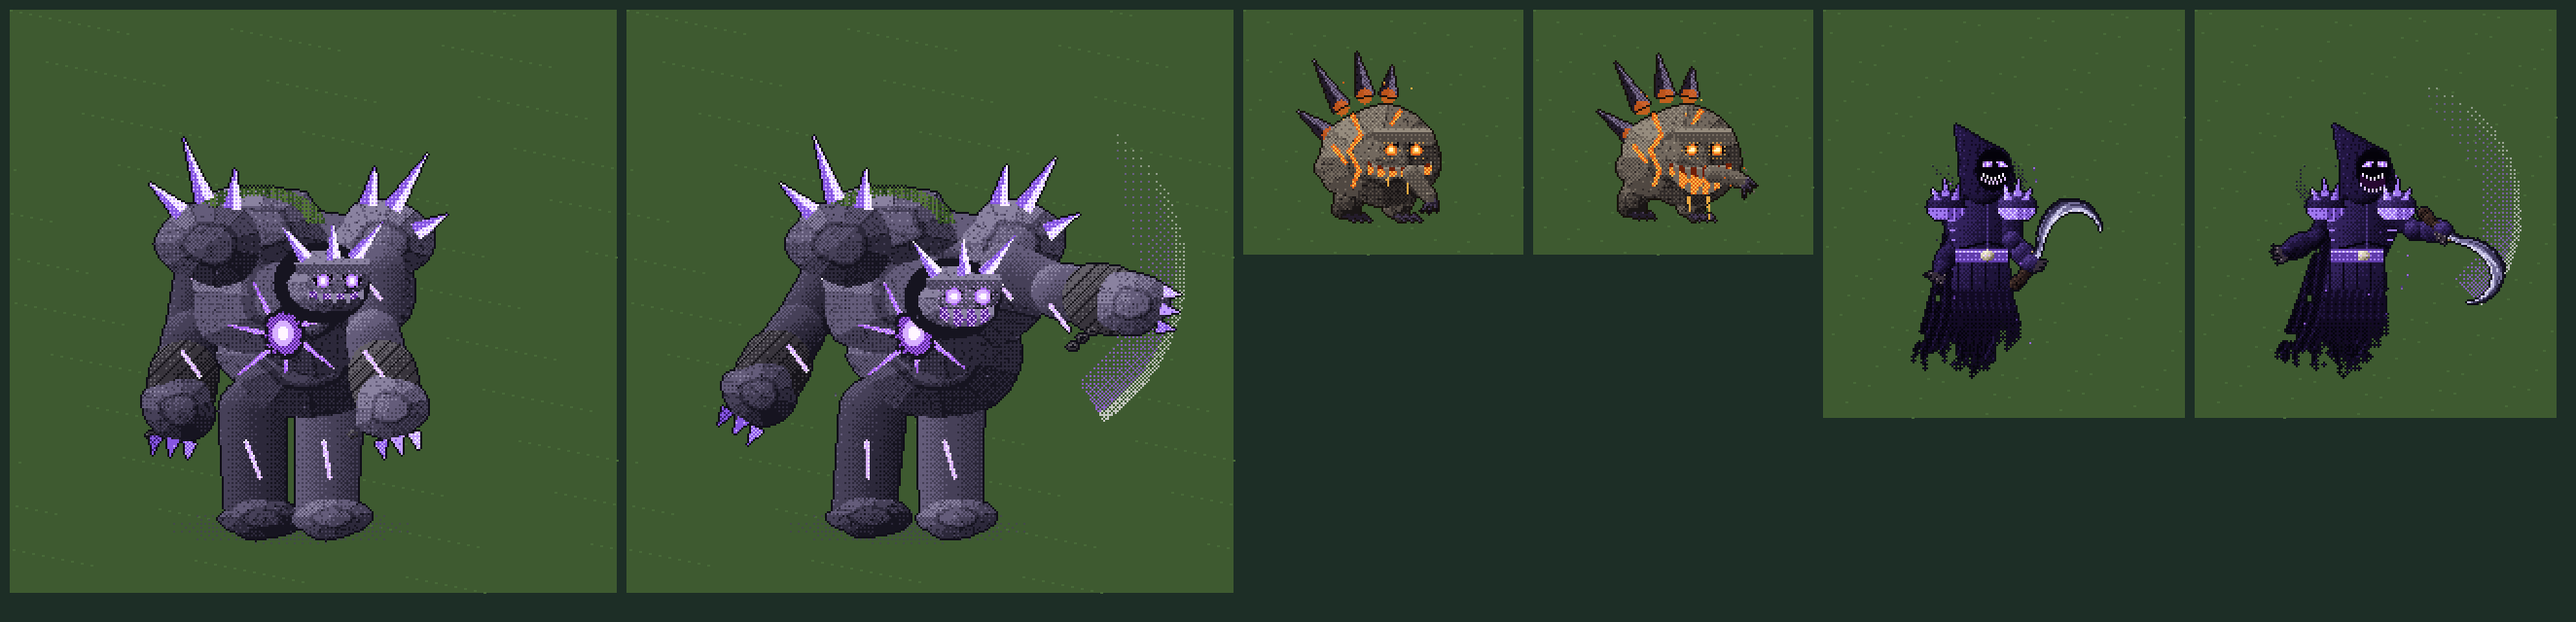
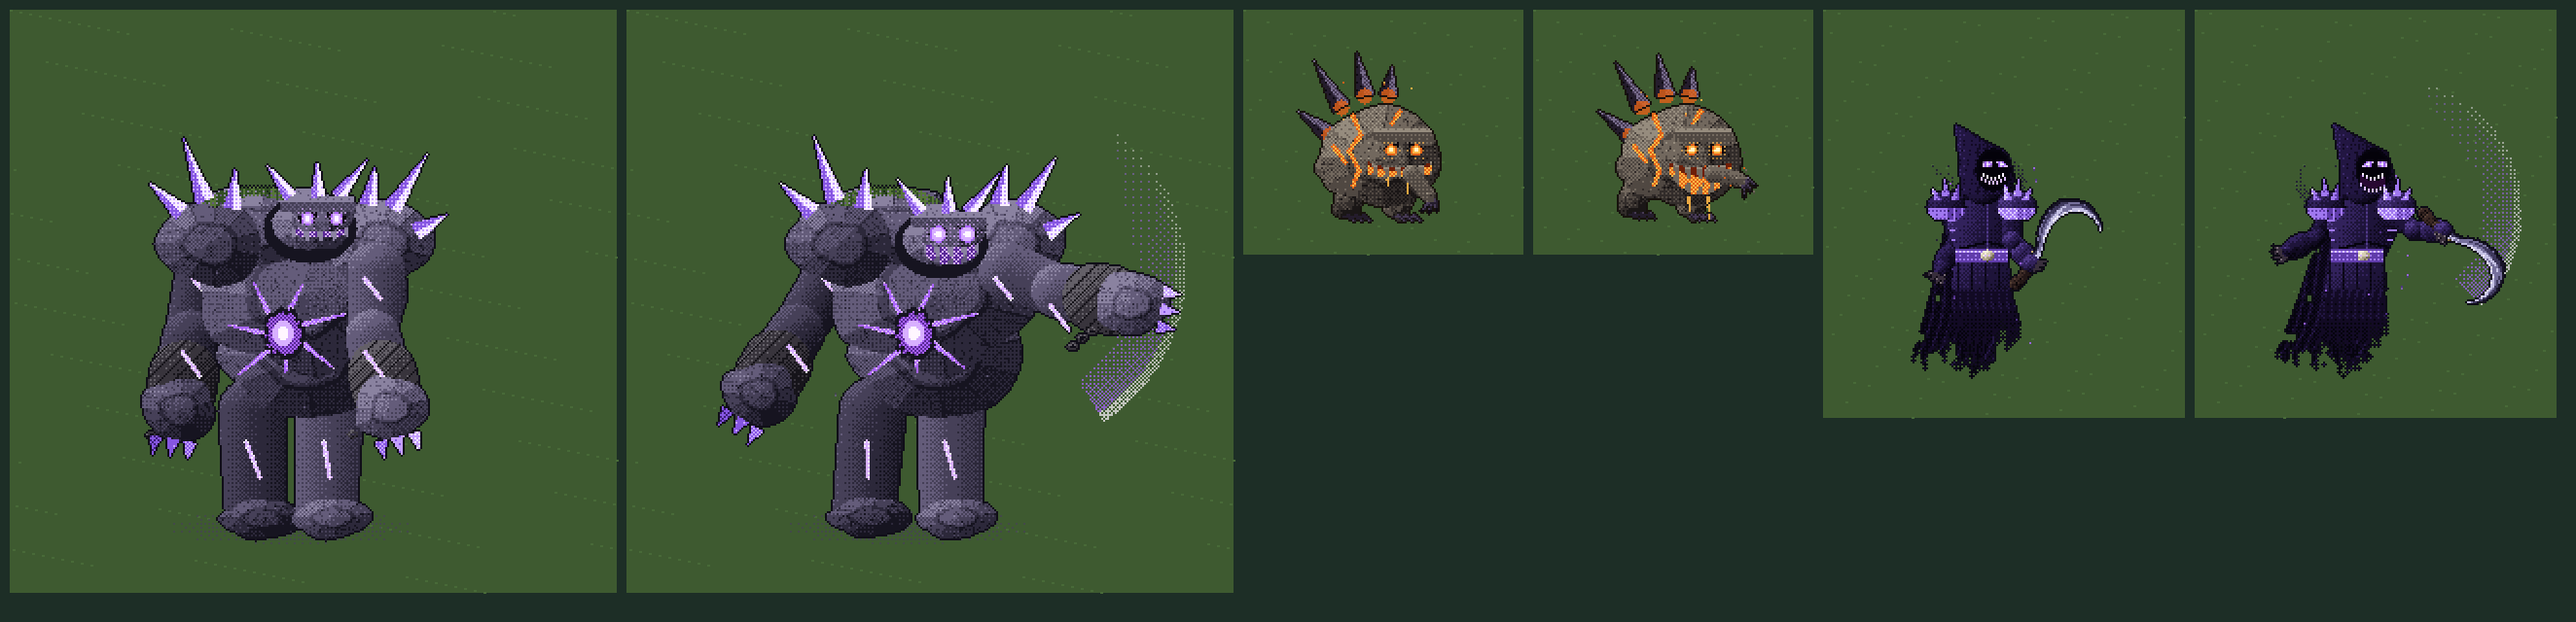
Страж костей: бараний рог за черепом, не закрывает лицо; голем: голова на груди между плеч, над ядром

Changed region(s): [[0.0619, 0.25, 0.1858, 0.5625], [0.3097, 0.2812, 0.4026, 0.5625]]

diff --git a/js/world/foepx.js b/js/world/foepx.js
@@ -380,16 +380,20 @@ function fpxHeadIce(X, hx, hy, Q, o) {                                          
   }
   X.R(hx - 6, hy - r * 1.05, hx + 10, hy - r * 0.5, (x, y) => ((x - hx - 2) / 8) ** 2 + ((y - hy + r * 0.85) / 2.6) ** 2 < 1 && X.dth(x, y) < 0.6 ? o.I[4] : null);   // иней на темени
 }
-function fpxHeadBone(X, hx, hy, Q, o) {                                                      // бычий череп с закрученными рогами
+function fpxHeadBone(X, hx, hy, Q, o) {                                                      // бычий череп, бараньи рога закручены назад вокруг уха
   const r = 12.5;
   fpxHorn(X, hx - 7, hy - 7, -1, 18, 3.4, o.Hr, -0.25);
-  fpxSkull(X, hx, hy, r, { Bn: o.Bn, G: o.G, open: Q.open, blink: Q.blink, hot: Q.hurt });
-  const cx = hx - r * 0.45, cy = hy - r * 0.05;                                             // ближний рог — спираль вокруг уха
+  const cx = hx - r * 0.95, cy = hy + r * 0.05;                                             // спираль за черепом: корень у темени, виток назад и вниз
   let px = 0, py = 0;
-  for (let m = 0; m <= 18; m++) {
-    const u = m / 18, a = -1.1 - u * 4.6, rr = r * 1.05 * (1 - u * 0.5), x = cx + Math.cos(a) * rr, y = cy + Math.sin(a) * rr, w = 5 * (1 - u * 0.8);
-    if (m) X.limb(px, py, x, y, w + 0.4, w, o.Hr, { f: (t, xx, yy, v) => (m % 2 && t < 0.3) ? X.q(o.Hr, v - 0.35, xx, yy) : null });
+  for (let m = 0; m <= 20; m++) {
+    const u = m / 20, a = -0.9 - u * 4.9, rr = r * 0.95 * (1 - u * 0.6), x = cx + Math.cos(a) * rr, y = cy + Math.sin(a) * rr, w = 5.2 * (1 - u * 0.75);
+    if (m) X.limb(px, py, x, y, w + 0.4, w, o.Hr, { b: -0.05, f: (t, xx, yy, v) => (m % 2 && t < 0.3) ? X.q(o.Hr, v - 0.35, xx, yy) : null });
     px = x; py = y;
+  }
+  fpxSkull(X, hx, hy, r, { Bn: o.Bn, G: o.G, open: Q.open, blink: Q.blink, hot: Q.hurt });
+  for (const k of [-0.25, 0.25]) {                                                          // короткие рожки на лбу
+    const bx = hx + r * (0.15 + k), by = hy - r * 0.85;
+    X.poly([[bx - 2, by + 1.5], [bx + 1 + k * 8, by - 7], [bx + 2, by + 1.5]], o.Hr, (x) => x < bx ? 0.85 : 0.45);
   }
 }
 function fpxHeadShadow(X, hx, hy, Q, o) {                                                    // острый капюшон, в пустоте — глаза и парящий оскал
@@ -826,7 +830,7 @@ function fpxGolem(X, Q) {
     rune(hx - 3, hipY + 16, fx + 2, hipY + 34);
   }
   fpxStone(X, ux + 6, -92 + uy, 42, 30, ST, 2, -0.1);                                        // брюхо
-  fpxStone(X, ux + 6, -124 + uy, 56, 40, ST, 5, 0);                                          // грудь-глыба
+  fpxStone(X, ux + 6, -124 + uy, 52, 40, ST, 5, 0);                                          // грудь-глыба
   fpxStone(X, ux - 18, -158 + uy, 36, 22, ST, 9, 0.08);                                      // горб
   X.R(ux - 56, -186 + uy, ux + 20, -146 + uy, (x, y) => { const d = ((x - ux + 18) / 36) ** 2 + ((y + 158 - uy) / 22) ** 2; return d < 1 && d > 0.55 && y < -160 + uy && X.dth(x, y) < 0.8 ? X.q(MS, 0.3 + X.hsh(Math.round(x)) * 0.7, x, y) : null; });
   for (const s of [-1, 1]) fpxStone(X, s * 42 + ux + (s > 0 ? 4 : 0), -150 + uy, 26, 22, ST, 60 + s, s < 0 ? -0.1 : 0.1);   // плечи-валуны выше головы
@@ -841,8 +845,8 @@ function fpxGolem(X, Q) {
   });
   const head = () => {
   // голова утоплена ниже плеч, выдвинута вперёд: тяжёлый лоб, рога-кристаллы, глаза-угли, клыкастая пасть с отсветом
-  const hx = ux + 20, hy = -134 + uy + (Q.st === 'strike' ? 8 : 0) + (Q.hurt ? -3 : 0);
-  X.ell(hx - 4, hy + 4, 25, 21, [ST[0]]);                                                    // тень-провал вокруг головы
+  const hx = ux + 12, hy = -166 + uy + (Q.st === 'strike' ? 8 : 0) + (Q.hurt ? -3 : 0);
+  X.ell(hx - 2, hy + 8, 24, 18, [ST[0]]);                                                    // тень-провал вокруг головы
   fpxStone(X, hx, hy + 4, 20, 17, ST, 13, 0.12);
   for (const [dx, a, L] of [[-12, -2.2, 22], [2, -1.6, 20], [12, -0.9, 26]]) { const bx = hx + dx, by = hy - 8, nx = -Math.sin(a), ny = Math.cos(a); X.poly([[bx + nx * 4, by + ny * 4], [bx + Math.cos(a) * L, by + Math.sin(a) * L], [bx - nx * 4, by - ny * 4]], CR, (x, y) => ((x - bx) * nx + (y - by) * ny) > 0 ? 0.95 : 0.45); }
   X.poly([[hx - 18, hy - 6], [hx + 20, hy - 9], [hx + 22, hy - 2], [hx + 12, hy + 1], [hx + 3, hy - 2], [hx - 6, hy + 1], [hx - 17, hy - 1]], ST, (x, y) => y < hy - 5 ? 0.95 : 0.6);   // лоб
